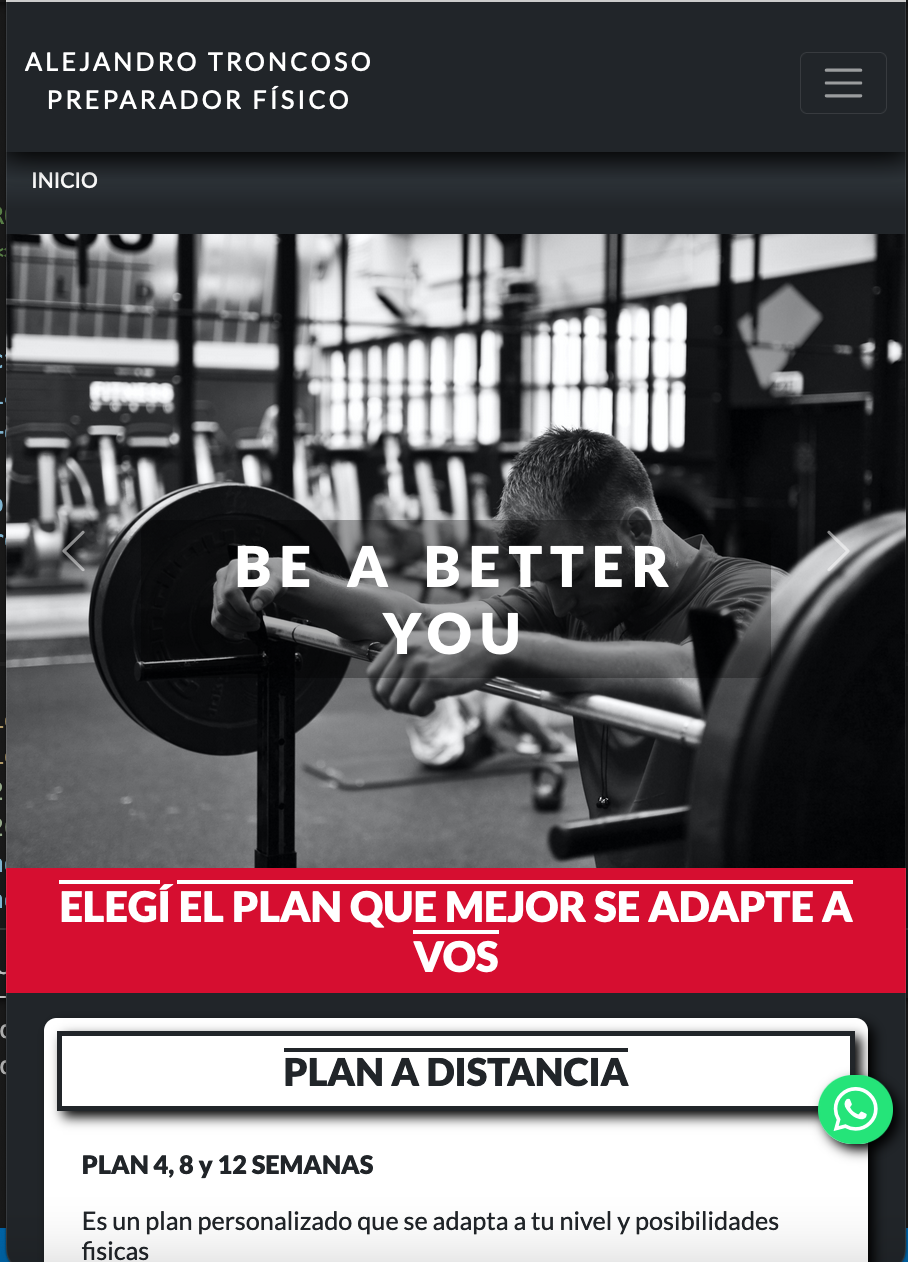
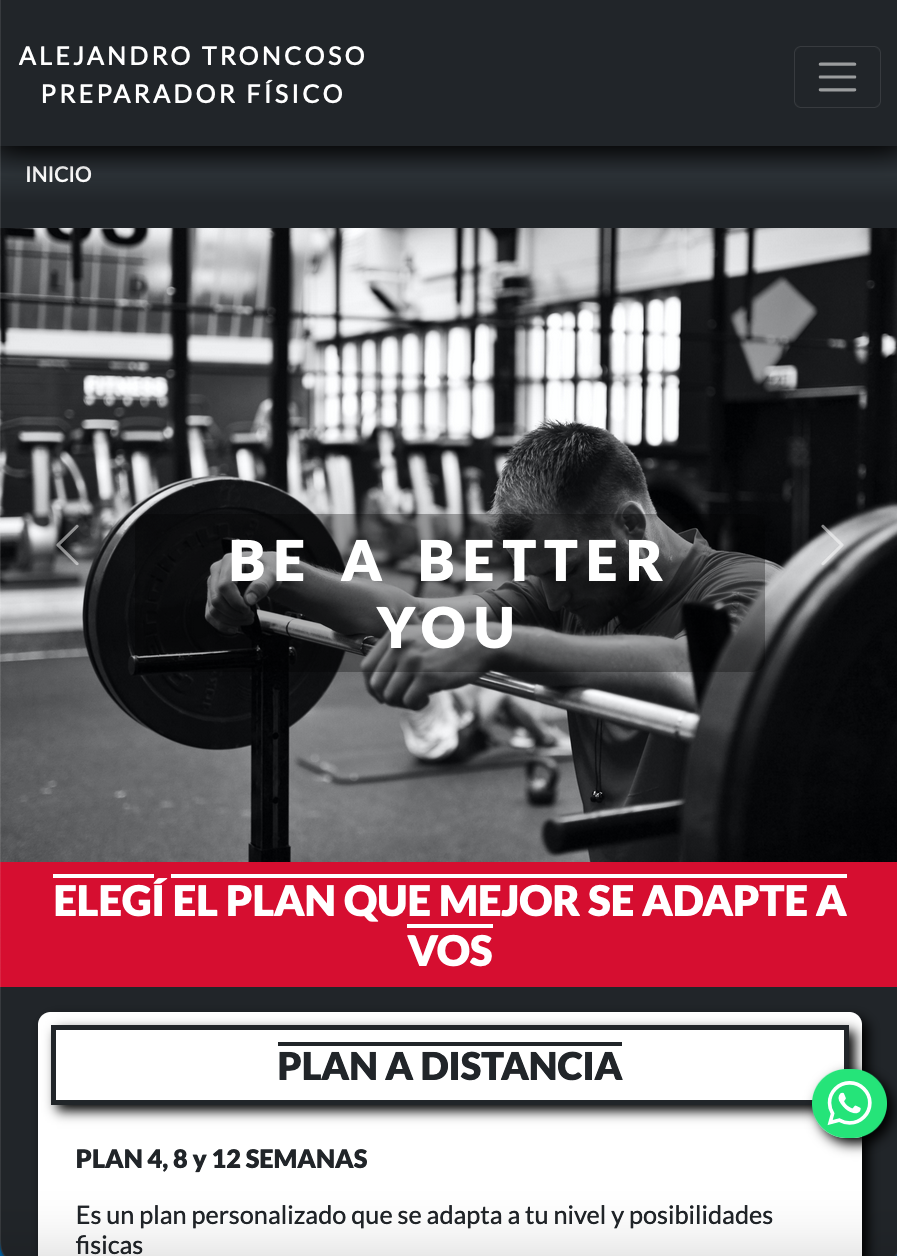
Ajuste iconos redes y responsive - Recorte fotos

diff --git a/styles/styles.scss b/styles/styles.scss
@@ -49,9 +49,10 @@ main {
         color: $color-blanco;
         text-shadow: $sombra-items;
         text-align: center;
-         &:hover {
-             color: darken($color-blanco, 5%);
-         }
+
+        &:hover {
+            color: darken($color-blanco, 5%);
+        }
 
         &-link {
             text-decoration: none;
@@ -178,7 +179,7 @@ nav>a {
             justify-content: center;
 
             &--icono {
-                font-size: 2rem;
+                font-size: 1rem;
                 padding-top: .25rem;
                 margin: .25rem 0;
                 color: $color-blanco;
@@ -543,10 +544,10 @@ nav>a {
             color: $color-negro;
             border-radius: .25rem;
             padding: .5rem;
-            font-size: 3rem;
+            font-size: 1.6rem;
         }
 
-        &:hover{
+        &:hover {
             text-shadow: $sombra-items;
         }
     }
@@ -558,15 +559,16 @@ nav>a {
     }
 }
 
-    iframe {
-        width: 10rem;
-        height: 10rem;
-        border-radius: 50%;
-        border: none;
-        &:hover {
-            box-shadow: $sombra-items;
-        }
+iframe {
+    width: 10rem;
+    height: 10rem;
+    border-radius: 50%;
+    border: none;
+
+    &:hover {
+        box-shadow: $sombra-items;
     }
+}
 
 // FIN ESTILOS FOOTER -------------------------------------------//
 /****************************************************************/

diff --git a/styles/styles.css b/styles/styles.css
@@ -342,7 +342,7 @@ nav > a {
 }
 
 .seccion__inicio--redes--icono {
-  font-size: 2rem;
+  font-size: 1rem;
   padding-top: .25rem;
   margin: .25rem 0;
   color: white;
@@ -754,7 +754,7 @@ nav > a {
   color: #222222;
   border-radius: .25rem;
   padding: .5rem;
-  font-size: 3rem;
+  font-size: 1.6rem;
 }
 
 .footer__link:hover {
@@ -972,7 +972,7 @@ iframe:hover {
             align-items: center;
   }
   .seccion__inicio--redes--icono {
-    font-size: 3rem;
+    font-size: 1.6rem;
     margin: 0 .5rem;
   }
   .resaltado {

diff --git a/styles/_responsive.scss b/styles/_responsive.scss
@@ -230,7 +230,7 @@
                 align-items: center;
 
                 &--icono {
-                    font-size: 3rem;
+                    font-size: 1.6rem;
                     margin: 0 .5rem;
                 }
             }
